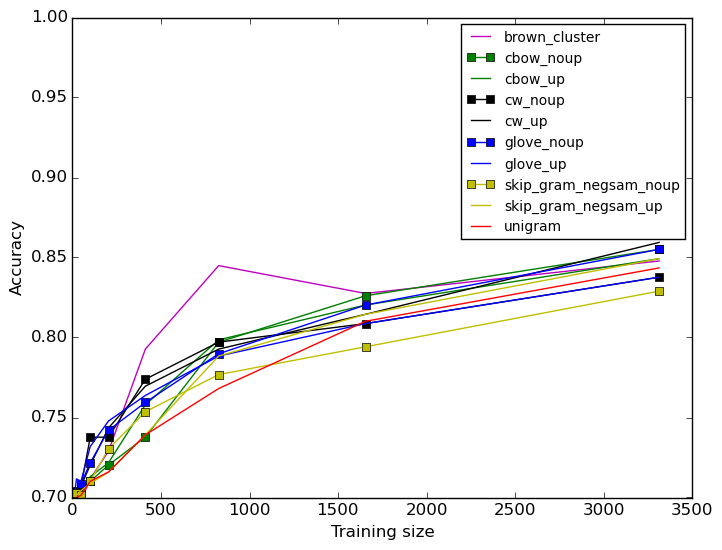
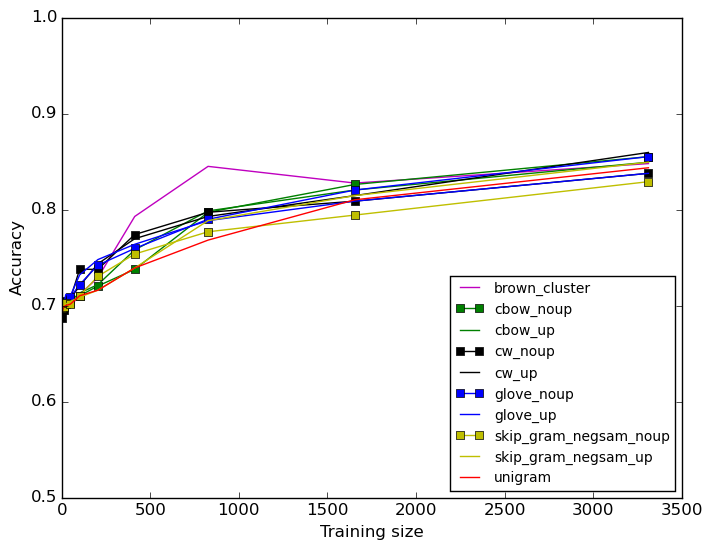
update benchmark table

diff --git a/plots/MWEoutOfVoc.py b/plots/MWEoutOfVoc.py
@@ -152,7 +152,7 @@ for root, subdirs, files in sortedWalk(walk_dir):
 				label = ''	
 				marker = ''
 
-plt.ylim([.7,1])
+plt.ylim([.5,1])
 plt.xlabel('Training size')
 plt.ylabel('Accuracy')
 
